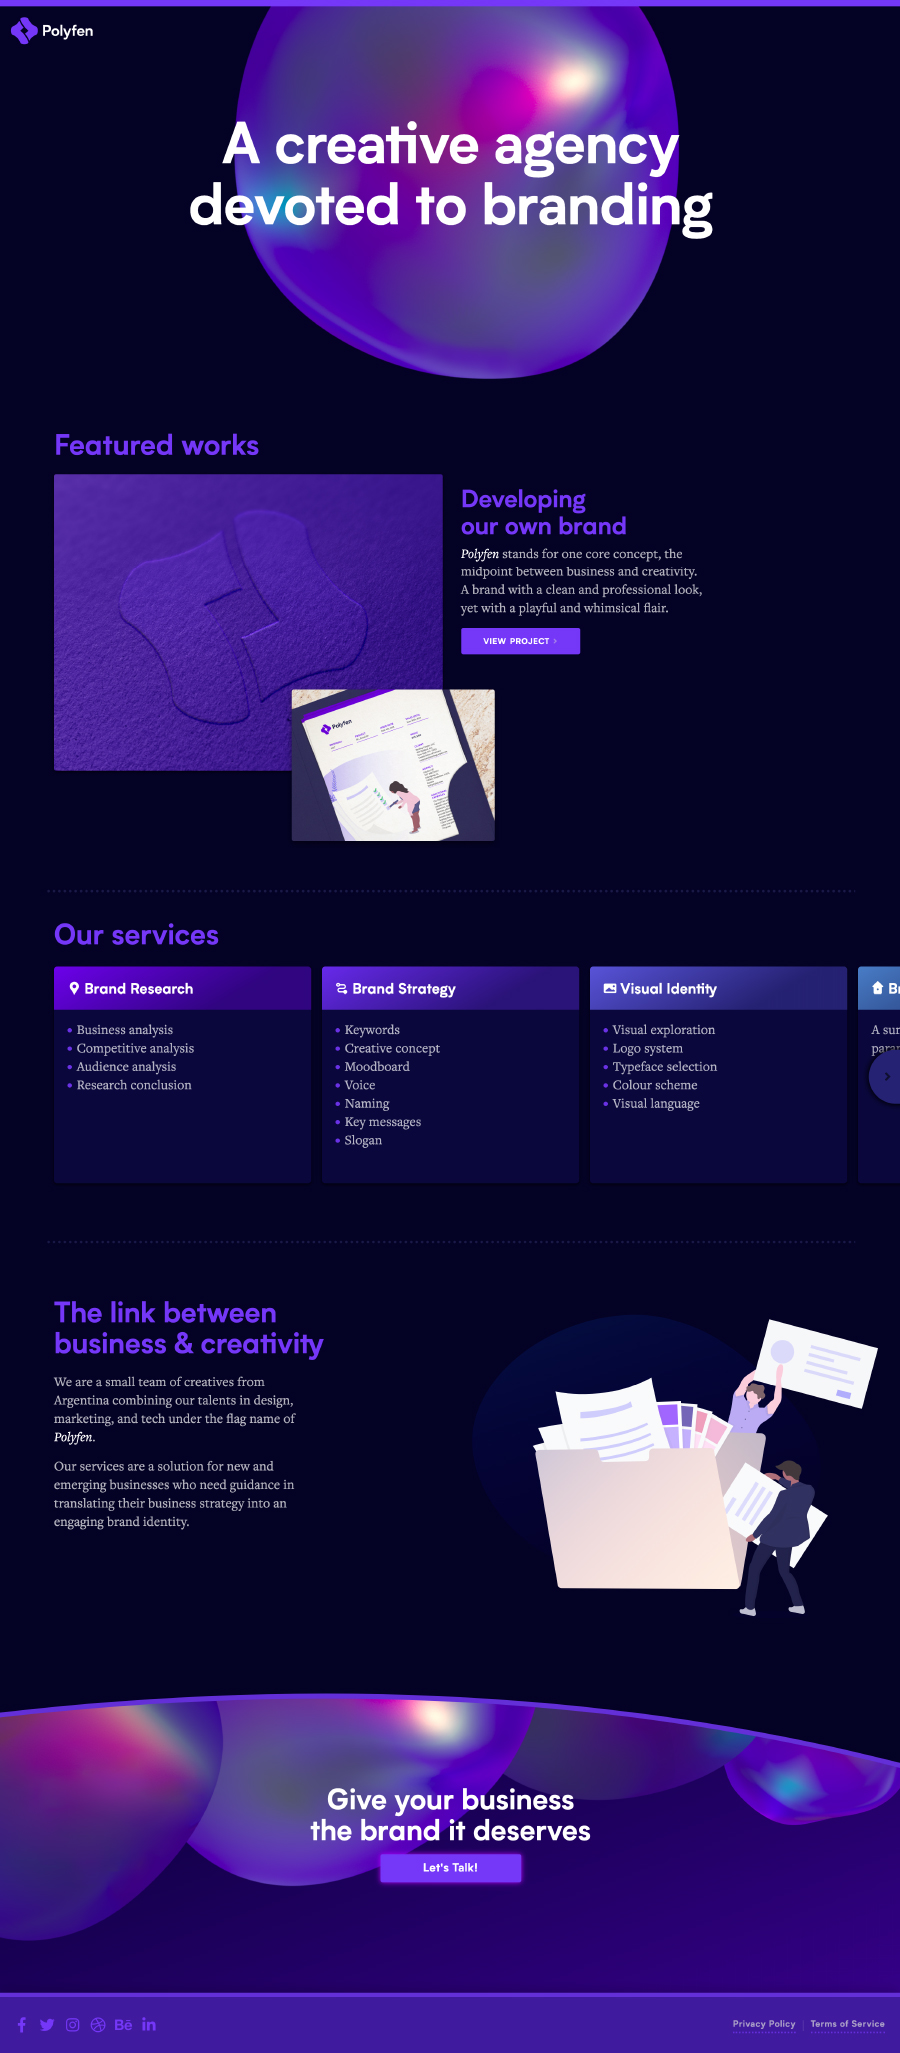
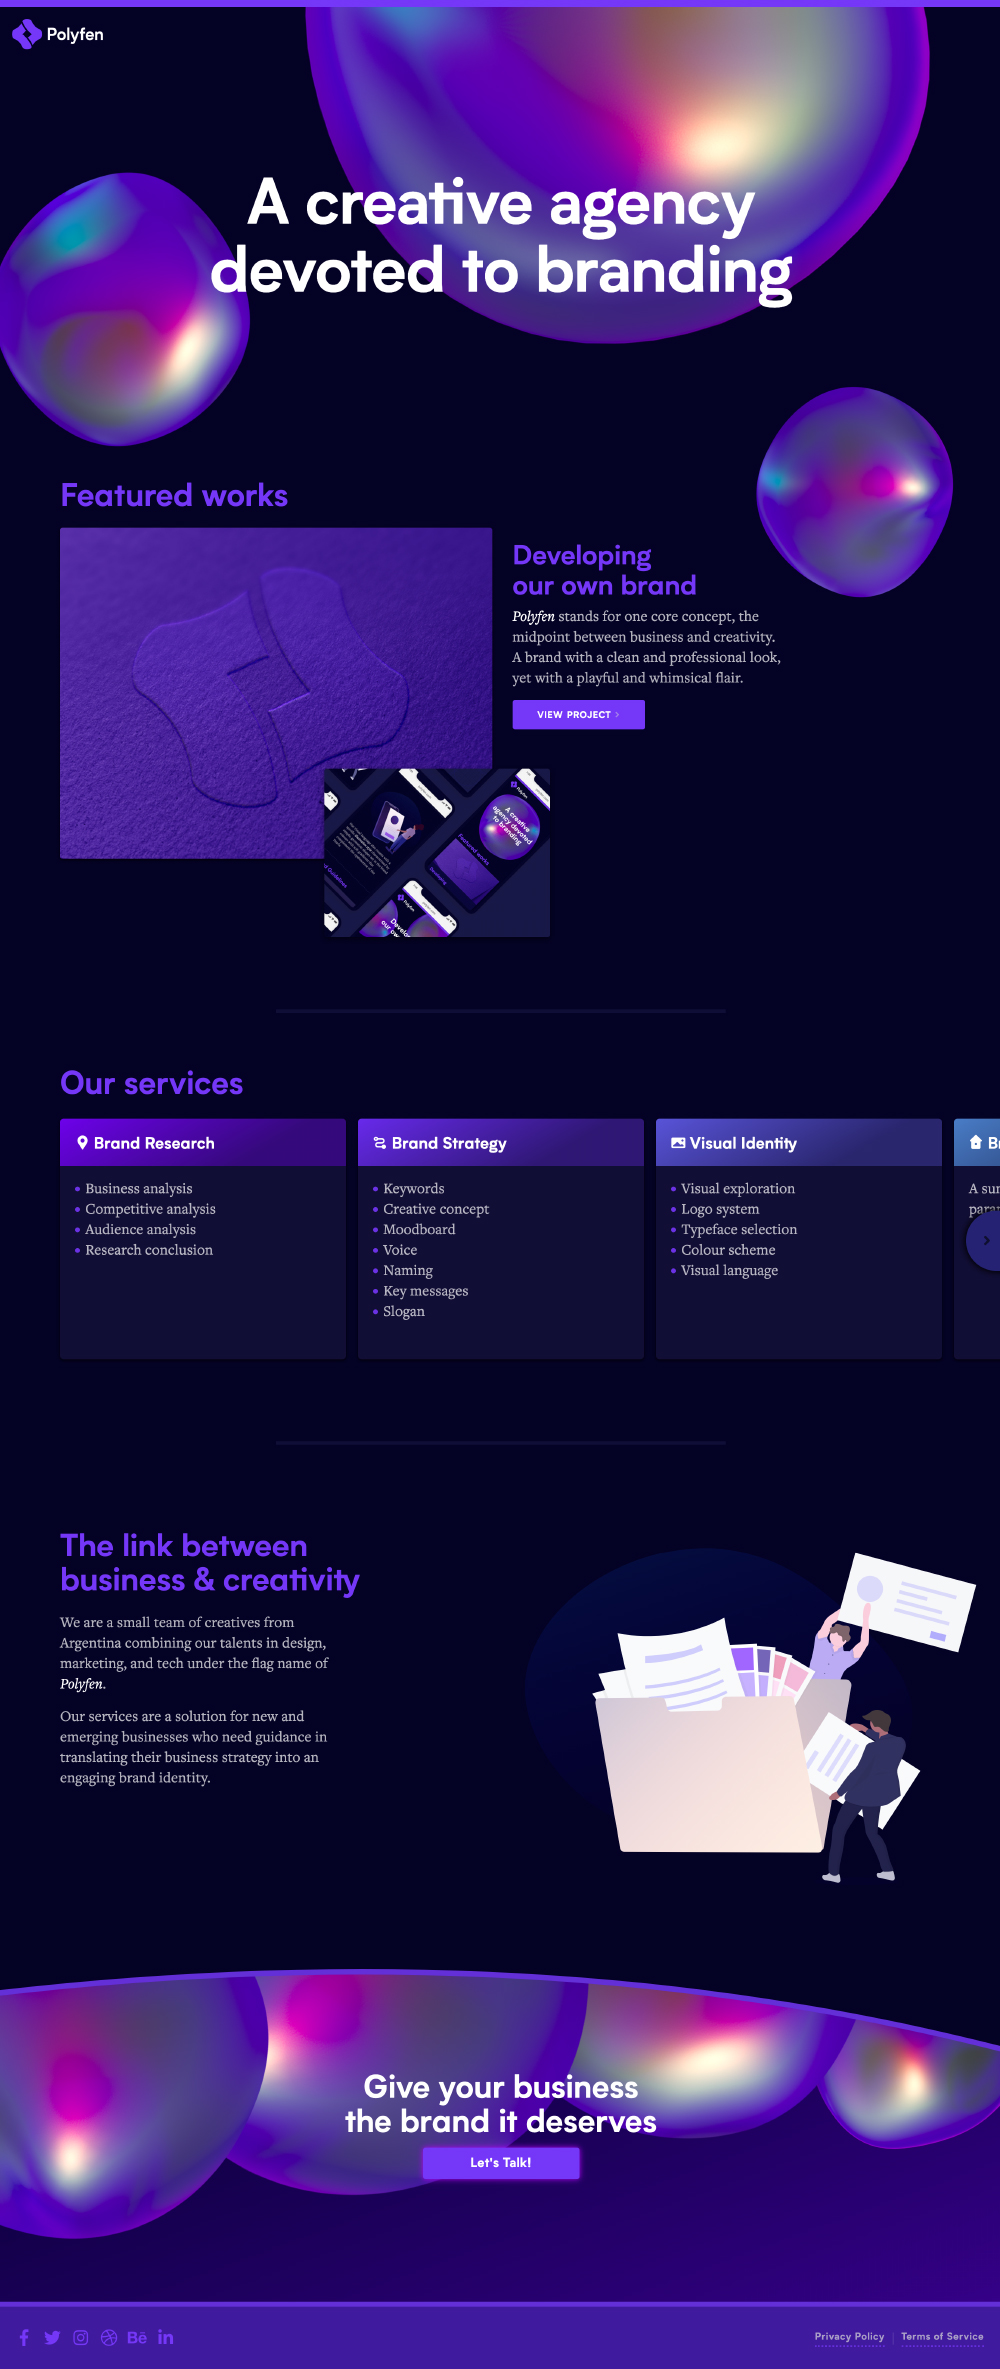
WIP

diff --git a/app/css/sections.css b/app/css/sections.css
@@ -1113,8 +1113,8 @@ section#call-to-action {
     }
 
     #pearl-11 {
-      top: -450px;
-      right: 30px;
+      top: -400px;
+      right: 40px;
       width: 1050px;
       height: 1050px;
     }
